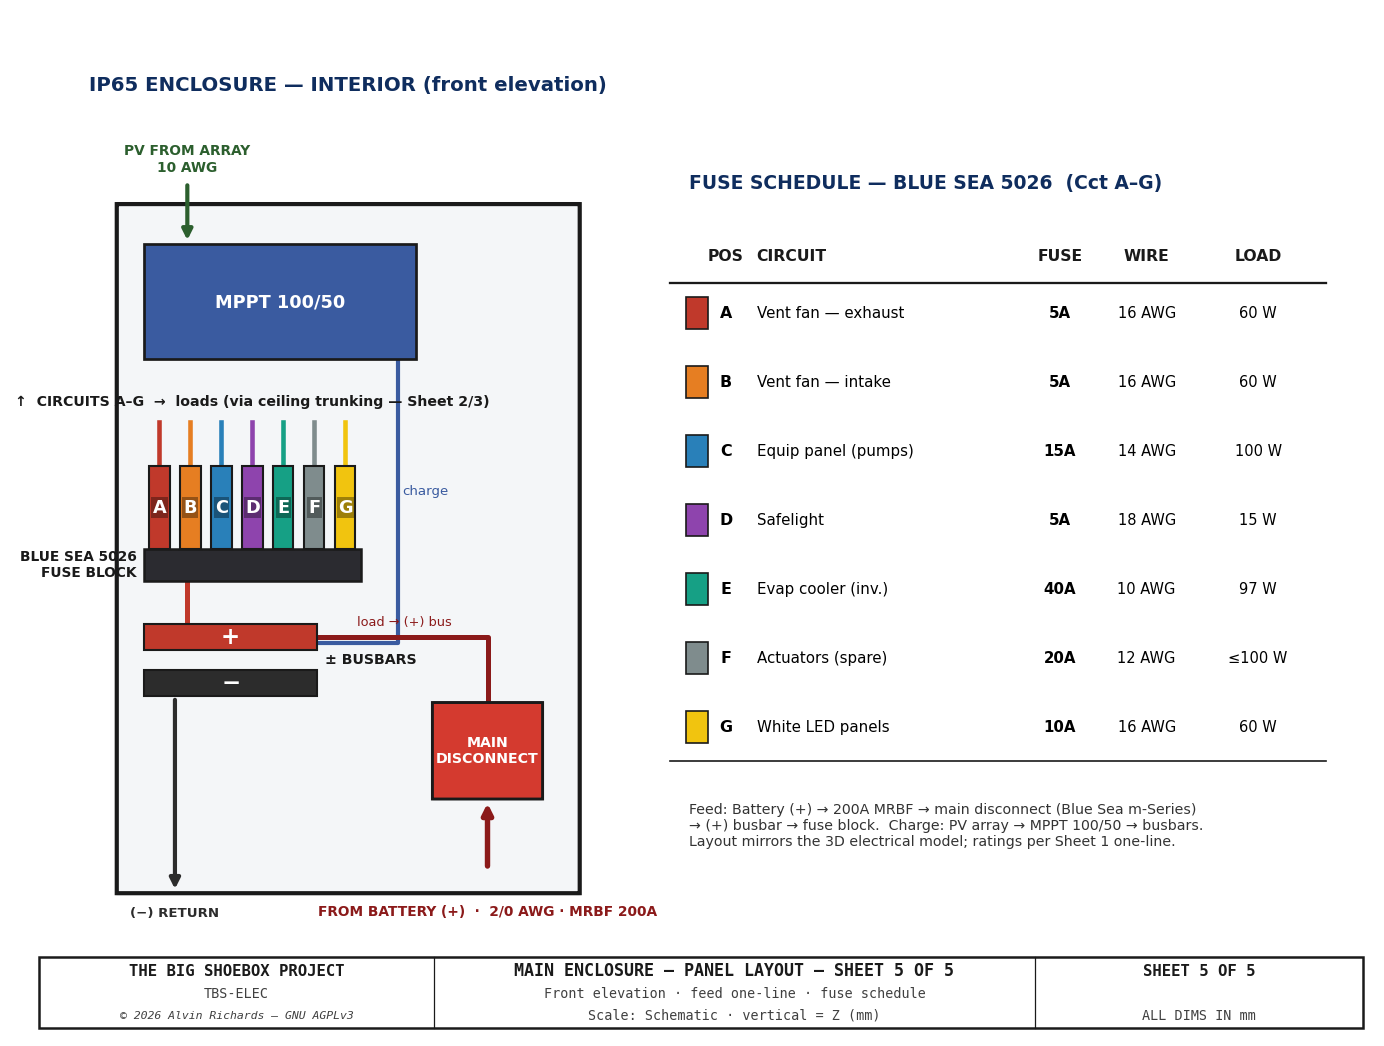
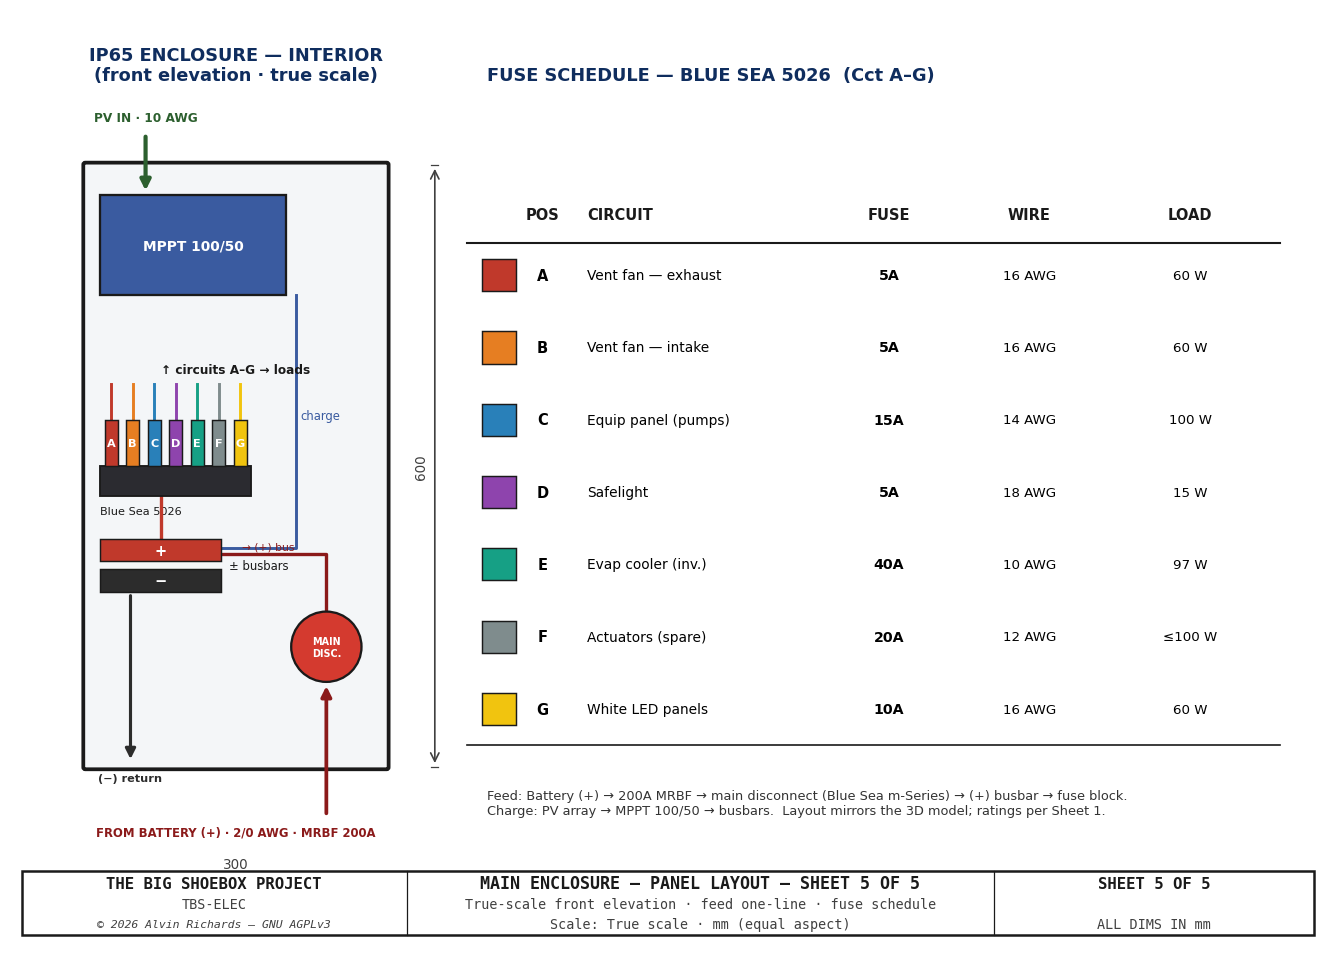
electrical Sheet 5: redraw true-scale mm (equal aspect)
Replace the mixed-units panel layout (mm vertical / schematic horizontal) with a
true-scale front elevation: both axes are real mm, set_aspect('equal'), and the
enclosure + MPPT + blade-fuse stack + busbars + rotary disconnect are drawn at their
real tbs_constants sizes/positions (enclosure 300x600mm, dimensioned). Fuse schedule
sits beside it in the same mm space; feed one-line + PV charge path preserved.

diff --git a/src/generators/generate_electrical_diagram.py b/src/generators/generate_electrical_diagram.py
@@ -1483,15 +1483,14 @@ def draw_sheet4():
 def draw_sheet5():
     """SHEET 5 — Main Enclosure Panel Layout + Fuse Schedule.
 
-    Frontal elevation of the IP65 enclosure interior — mirrors the 3D model's
-    `power_core` arrangement (MPPT on top, the A-G blade-fuse stack, +/- busbars,
-    rotary main disconnect) — with the internal feed one-line
-    Battery(+) -> MRBF -> main disconnect -> busbar(+) -> fuse stack -> circuits,
-    plus a fuse schedule (position / circuit / rating / wire / load). Vertical axis
-    is real Z (mm, per tbs_constants); horizontal is schematic. Circuit colors match
-    the 3D fuse stack; ratings/loads mirror Sheet 1.
+    TRUE-SCALE front elevation (mm, equal aspect) of the IP65 enclosure interior —
+    mirrors the 3D model's `power_core` arrangement (MPPT, the A-G blade-fuse stack,
+    +/- busbars, rotary main disconnect) — with the internal feed one-line and a fuse
+    schedule. BOTH axes are real mm: enclosure-relative X (0 = enclosure left = EP_X),
+    Z = real height. Component sizes/positions read from tbs_constants (same as the 3D).
     """
-    from tbs_constants import EP_H_LO, EP_H_HI
+    from tbs_constants import (EP_H_LO, EP_H_HI, EP_W, MPPT_W, MPPT_H,
+                               FUSEBLK_W, BUSBAR_L, BUSBAR_H, DISCONNECT_D)
     R = mpatches.Rectangle
     # letter, circuit name, fuse, wire, load, color (= 3D model CCT color)
     CIRCUITS5 = [
@@ -1504,102 +1503,101 @@ def draw_sheet5():
         ("G", "White LED panels",    "10A", "16 AWG", "60 W",   "#F1C40F"),
     ]
 
-    fig, ax = plt.subplots(figsize=(11.5, 8.8))
+    fig, ax = plt.subplots(figsize=(13.5, 8.0))
+    ax.set_aspect("equal")        # ← true scale: 1 mm in X == 1 mm in Z
     ax.axis("off")
 
-    # ── Enclosure shell (vertical = real Z mm; horizontal = schematic units) ──
-    ex0, ex1 = 0.0, 3.7
-    ax.add_patch(FancyBboxPatch((ex0, EP_H_LO), ex1 - ex0, EP_H_HI - EP_H_LO,
-                                boxstyle="round,pad=0.02", fc="#F4F6F8", ec=C_OUT,
-                                lw=2.0, zorder=2))
-    ax.text((ex0 + ex1) / 2, EP_H_HI + 95, "IP65 ENCLOSURE — INTERIOR (front elevation)",
-            ha="center", va="bottom", fontsize=9.5, fontweight="bold", color=TITLE_COL)
+    eh0, eh1 = EP_H_LO, EP_H_HI                          # 1500, 2100
+    # ── Enclosure shell — real 300 × 600 mm, dimensioned ──
+    ax.add_patch(FancyBboxPatch((0, eh0), EP_W, eh1 - eh0, boxstyle="round,pad=2",
+                                fc="#F4F6F8", ec=C_OUT, lw=1.8, zorder=2))
+    ax.text(EP_W / 2, eh1 + 80, "IP65 ENCLOSURE — INTERIOR\n(front elevation · true scale)",
+            ha="center", va="bottom", fontsize=8.5, fontweight="bold", color=TITLE_COL)
+    draw_dim_v(ax, EP_W + 48, eh0, eh1, f"{eh1 - eh0}")
+    draw_dim_h(ax, 0, EP_W, eh0 - 110, f"{EP_W}")
 
-    # ── MPPT (top) ──
-    ax.add_patch(R((0.2, 1965), 2.2, 100, fc="#3A5BA0", ec=C_OUT, lw=1.3, zorder=4))
-    ax.text(1.3, 2015, "MPPT 100/50", ha="center", va="center", fontsize=8.5,
-            fontweight="bold", color="white", zorder=5)
-    varrow(ax, 0.55, 2120, 2065, col=C_GND)            # PV in
-    ax.text(0.55, 2126, "PV FROM ARRAY\n10 AWG", ha="center", va="bottom",
-            fontsize=6.6, color=C_GND, fontweight="bold")
-    ax.plot([2.25, 2.25, 1.55], [1965, 1718, 1718], color="#3A5BA0", lw=2.0, zorder=3)  # charge → (+) busbar (clear of fuses)
-    ax.text(2.29, 1850, "charge", ha="left", va="center", fontsize=6.4, color="#3A5BA0")
+    # ── MPPT ──
+    mz = eh1 - MPPT_H - 30                               # 1970
+    ax.add_patch(R((15, mz), MPPT_W, MPPT_H, fc="#3A5BA0", ec=C_OUT, lw=1.1, zorder=4))
+    ax.text(15 + MPPT_W / 2, mz + MPPT_H / 2, "MPPT 100/50", ha="center", va="center",
+            fontsize=6.6, fontweight="bold", color="white", zorder=5)
+    varrow(ax, 60, eh1 + 32, mz + MPPT_H, col=C_GND)                 # PV in
+    ax.text(60, eh1 + 40, "PV IN · 10 AWG", ha="center", va="bottom", fontsize=5.8,
+            color=C_GND, fontweight="bold")
+    ax.plot([210, 210, 135], [mz, 1718, 1718], color="#3A5BA0", lw=1.4, zorder=3)   # charge → +bus
+    ax.text(214, 1850, "charge", ha="left", va="center", fontsize=5.6, color="#3A5BA0")
 
     # ── Blade-fuse stack (Blue Sea 5026): base + 7 standing blades A-G ──
-    fb_x0, fb_x1, base_z = 0.2, 1.95, 1772
-    ax.add_patch(R((fb_x0, base_z), fb_x1 - fb_x0, 28, fc="#2B2B30", ec=C_OUT, lw=1.2, zorder=4))
-    pitch = (fb_x1 - fb_x0) / len(CIRCUITS5)
-    bw = pitch * 0.66
+    fb_x0, base_z = 15, eh0 + 270                        # 1770
+    fbase_h, fuse_h = 30, 46
+    ax.add_patch(R((fb_x0, base_z), FUSEBLK_W, fbase_h, fc="#2B2B30", ec=C_OUT, lw=0.9, zorder=4))
+    pitch = FUSEBLK_W / len(CIRCUITS5)
+    bw = pitch * 0.6
     for i, (lt, nm, fz, wr, ld, col) in enumerate(CIRCUITS5):
         cx = fb_x0 + (i + 0.5) * pitch
-        ax.add_patch(R((cx - bw / 2, base_z + 28), bw, 72, fc=col, ec=C_OUT, lw=1.0, zorder=5))
-        ax.text(cx, base_z + 64, lt, ha="center", va="center", fontsize=8.5,
-                fontweight="bold", color="white",
-                bbox=dict(fc="black", ec="none", alpha=0.35, pad=0.6), zorder=6)
-        # circuit exit stub (colored) up toward the trunking band
-        ax.plot([cx, cx], [base_z + 100, base_z + 138], color=col, lw=2.2, zorder=4)
-    ax.text(fb_x0 - 0.06, base_z + 14, "BLUE SEA 5026\nFUSE BLOCK", ha="right",
-            va="center", fontsize=6.6, color=C_OUT, fontweight="bold")
-    ax.text((fb_x0 + fb_x1) / 2, base_z + 150, "↑  CIRCUITS A–G  →  loads (via ceiling trunking — Sheet 2/3)",
-            ha="center", va="bottom", fontsize=6.8, color=C_OUT, fontweight="bold")
+        ax.add_patch(R((cx - bw / 2, base_z + fbase_h), bw, fuse_h, fc=col, ec=C_OUT, lw=0.7, zorder=5))
+        ax.text(cx, base_z + fbase_h + fuse_h / 2, lt, ha="center", va="center", fontsize=5.4,
+                fontweight="bold", color="white", zorder=6)
+        ax.plot([cx, cx], [base_z + fbase_h + fuse_h, base_z + fbase_h + fuse_h + 36], color=col, lw=1.4, zorder=4)
+    ax.text(EP_W / 2, base_z + fbase_h + fuse_h + 44, "↑ circuits A–G → loads",
+            ha="center", va="bottom", fontsize=5.8, color=C_OUT, fontweight="bold")
+    ax.text(fb_x0, base_z - 10, "Blue Sea 5026", ha="left", va="top", fontsize=5.4, color=C_OUT)
 
     # ── +/- busbars ──
-    ax.add_patch(R((0.2, 1712), 1.4, 22, fc="#C0392B", ec=C_OUT, lw=1.0, zorder=4))
-    ax.add_patch(R((0.2, 1672), 1.4, 22, fc="#2C2C2C", ec=C_OUT, lw=1.0, zorder=4))
-    ax.text(0.9, 1723, "+", ha="center", va="center", fontsize=11, color="white", fontweight="bold", zorder=5)
-    ax.text(0.9, 1683, "−", ha="center", va="center", fontsize=11, color="white", fontweight="bold", zorder=5)
-    ax.text(1.66, 1703, "± BUSBARS", ha="left", va="center", fontsize=6.8, color=C_OUT, fontweight="bold")
-    ax.plot([0.55, 0.55], [1734, base_z], color="#C0392B", lw=2.4, zorder=3)     # (+) main lug → fuse block
+    bbp, bbn = eh0 + 205, eh0 + 175                      # 1705, 1675
+    ax.add_patch(R((15, bbp), BUSBAR_L, BUSBAR_H, fc="#C0392B", ec=C_OUT, lw=0.7, zorder=4))
+    ax.add_patch(R((15, bbn), BUSBAR_L, BUSBAR_H, fc="#2C2C2C", ec=C_OUT, lw=0.7, zorder=4))
+    ax.text(15 + BUSBAR_L / 2, bbp + BUSBAR_H / 2, "+", ha="center", va="center", fontsize=7, color="white", fontweight="bold", zorder=5)
+    ax.text(15 + BUSBAR_L / 2, bbn + BUSBAR_H / 2, "−", ha="center", va="center", fontsize=7, color="white", fontweight="bold", zorder=5)
+    ax.text(15 + BUSBAR_L + 8, (bbp + bbn) / 2 + BUSBAR_H / 2, "± busbars", ha="left", va="center", fontsize=5.6, color=C_OUT)
+    ax.plot([75, 75], [bbp + BUSBAR_H, base_z], color="#C0392B", lw=1.6, zorder=3)   # (+) lug → fuse block
 
-    # ── Main disconnect (rotary) ──
-    ax.add_patch(FancyBboxPatch((2.55, 1582), 0.85, 84, boxstyle="round,pad=0.02",
-                                fc="#D43A2F", ec=C_OUT, lw=1.4, zorder=4))
-    ax.text(2.975, 1624, "MAIN\nDISCONNECT", ha="center", va="center", fontsize=6.8,
-            fontweight="bold", color="white", zorder=5)
-    # feed path: battery(+) in from below → disconnect line; disconnect load → (+) busbar
-    varrow(ax, 2.975, 1520, 1582, col="#8B1A1A", lw=2.6)
-    ax.text(2.975, 1490, "FROM BATTERY (+)  ·  2/0 AWG · MRBF 200A", ha="center", va="top",
-            fontsize=6.6, color="#8B1A1A", fontweight="bold")
-    ax.plot([2.975, 2.975, 1.6], [1666, 1723, 1723], color="#8B1A1A", lw=2.4, zorder=3)
-    ax.text(2.3, 1730, "load → (+) bus", ha="center", va="bottom", fontsize=6.2, color="#8B1A1A")
-    varrow(ax, 0.45, 1672, 1500, col="#2C2C2C", lw=2.0)                    # (−) return
-    ax.text(0.45, 1488, "(−) RETURN", ha="center", va="top", fontsize=6.4, color="#2C2C2C", fontweight="bold")
+    # ── Main disconnect (rotary knob) ──
+    dz = eh0 + 120                                       # 1620
+    ax.add_patch(mpatches.Circle((240, dz), DISCONNECT_D / 2, fc="#D43A2F", ec=C_OUT, lw=1.1, zorder=4))
+    ax.text(240, dz, "MAIN\nDISC.", ha="center", va="center", fontsize=4.6, fontweight="bold", color="white", zorder=5)
+    # feed: battery(+) in from below the enclosure → disconnect; disconnect → (+) busbar
+    varrow(ax, 240, eh0 - 50, dz - DISCONNECT_D / 2, col="#8B1A1A", lw=1.8)
+    ax.text(150, eh0 - 58, "FROM BATTERY (+) · 2/0 AWG · MRBF 200A", ha="center", va="top",
+            fontsize=5.6, color="#8B1A1A", fontweight="bold")
+    ax.plot([240, 240, 135], [dz + DISCONNECT_D / 2, 1712, 1712], color="#8B1A1A", lw=1.6, zorder=3)
+    ax.text(182, 1715, "→ (+) bus", ha="center", va="bottom", fontsize=5.2, color="#8B1A1A")
+    varrow(ax, 45, bbn, eh0 + 4, col="#2C2C2C", lw=1.5)              # (−) return
+    ax.text(45, eh0 - 6, "(−) return", ha="center", va="top", fontsize=5.4, color="#2C2C2C", fontweight="bold")
 
-    # ── Fuse schedule table (right) ──
-    tx = 4.6
-    cols = [(tx + 0.30, "POS", "center"), (tx + 0.55, "CIRCUIT", "left"),
-            (tx + 3.0, "FUSE", "center"), (tx + 3.7, "WIRE", "center"),
-            (tx + 4.6, "LOAD", "center")]
-    th = 2055
-    ax.text(tx, th + 55, "FUSE SCHEDULE — BLUE SEA 5026  (Cct A–G)", ha="left",
-            va="bottom", fontsize=9.0, fontweight="bold", color=TITLE_COL)
-    for cxt, label, ha in cols:
-        ax.text(cxt, th, label, ha=ha, va="center", fontsize=7.5, fontweight="bold", color=C_OUT)
-    ax.plot([tx - 0.15, tx + 5.15], [th - 24, th - 24], color=C_OUT, lw=1.1)
-    row_h = 60
+    # ── Fuse schedule table (right, same mm coordinate space) ──
+    tx = 400
+    th = eh1 - 50                                        # header Z
+    ax.text(tx, eh1 + 80, "FUSE SCHEDULE — BLUE SEA 5026  (Cct A–G)", ha="left",
+            va="bottom", fontsize=8.5, fontweight="bold", color=TITLE_COL)
+    cols = [(tx + 55, "POS", "center"), (tx + 100, "CIRCUIT", "left"),
+            (tx + 400, "FUSE", "center"), (tx + 540, "WIRE", "center"), (tx + 700, "LOAD", "center")]
+    for cxt, label, hh in cols:
+        ax.text(cxt, th, label, ha=hh, va="center", fontsize=7.0, fontweight="bold", color=C_OUT)
+    ax.plot([tx - 20, tx + 790], [th - 28, th - 28], color=C_OUT, lw=1.0)
+    row_h = 72
     for i, (lt, nm, fz, wr, ld, col) in enumerate(CIRCUITS5):
-        ry = th - 50 - i * row_h
-        ax.add_patch(R((tx - 0.02, ry - 14), 0.18, 28, fc=col, ec=C_OUT, lw=0.8))
-        ax.text(tx + 0.30, ry, lt, ha="center", va="center", fontsize=7.6, fontweight="bold")
-        ax.text(tx + 0.55, ry, nm, ha="left", va="center", fontsize=7.2)
-        ax.text(tx + 3.0, ry, fz, ha="center", va="center", fontsize=7.2, fontweight="bold")
-        ax.text(tx + 3.7, ry, wr, ha="center", va="center", fontsize=7.0)
-        ax.text(tx + 4.6, ry, ld, ha="center", va="center", fontsize=7.0)
-    botline = th - 50 - len(CIRCUITS5) * row_h + 30
-    ax.plot([tx - 0.15, tx + 5.15], [botline, botline], color=C_OUT, lw=0.8)
-    ax.text(tx, botline - 36,
-            "Feed: Battery (+) → 200A MRBF → main disconnect (Blue Sea m-Series)\n"
-            "→ (+) busbar → fuse block.  Charge: PV array → MPPT 100/50 → busbars.\n"
-            "Layout mirrors the 3D electrical model; ratings per Sheet 1 one-line.",
-            ha="left", va="top", fontsize=6.8, color="#333")
+        ry = th - 60 - i * row_h
+        ax.add_patch(R((tx - 5, ry - 16), 34, 32, fc=col, ec=C_OUT, lw=0.7))
+        ax.text(tx + 55, ry, lt, ha="center", va="center", fontsize=7.0, fontweight="bold")
+        ax.text(tx + 100, ry, nm, ha="left", va="center", fontsize=6.6)
+        ax.text(tx + 400, ry, fz, ha="center", va="center", fontsize=6.8, fontweight="bold")
+        ax.text(tx + 540, ry, wr, ha="center", va="center", fontsize=6.4)
+        ax.text(tx + 700, ry, ld, ha="center", va="center", fontsize=6.4)
+    botline = th - 60 - len(CIRCUITS5) * row_h + 36
+    ax.plot([tx - 20, tx + 790], [botline, botline], color=C_OUT, lw=0.8)
+    ax.text(tx, botline - 44,
+            "Feed: Battery (+) → 200A MRBF → main disconnect (Blue Sea m-Series) → (+) busbar → fuse block.\n"
+            "Charge: PV array → MPPT 100/50 → busbars.  Layout mirrors the 3D model; ratings per Sheet 1.",
+            ha="left", va="top", fontsize=6.2, color="#333")
 
-    ax.set_xlim(-0.7, 10.1)
-    ax.set_ylim(1380, 2265)
+    ax.set_xlim(-70, 1230)
+    ax.set_ylim(1330, 2250)
 
     title_block(ax, "SHEET 5 OF 5",
                 drawing_title="MAIN ENCLOSURE — PANEL LAYOUT",
-                subtitle="Front elevation · feed one-line · fuse schedule",
-                scale_note="Schematic · vertical = Z (mm)",
+                subtitle="True-scale front elevation · feed one-line · fuse schedule",
+                scale_note="True scale · mm (equal aspect)",
                 doc_id="TBS-ELEC", height=0.07)
 
     plt.savefig(f"{DIAGRAMS_DIR}/electrical-sheet5.png", dpi=150, bbox_inches="tight",
